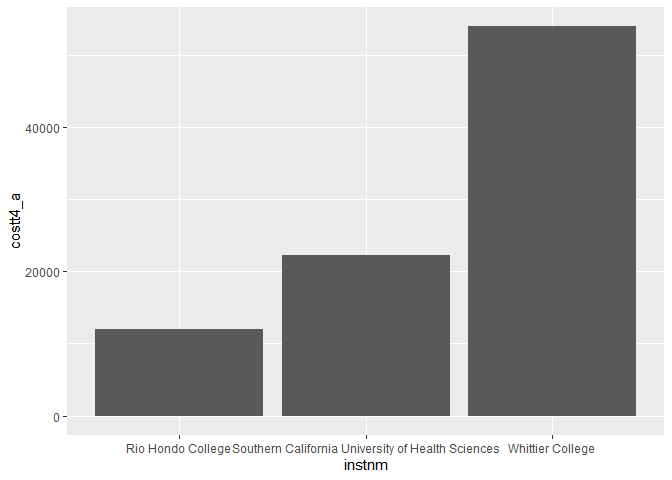
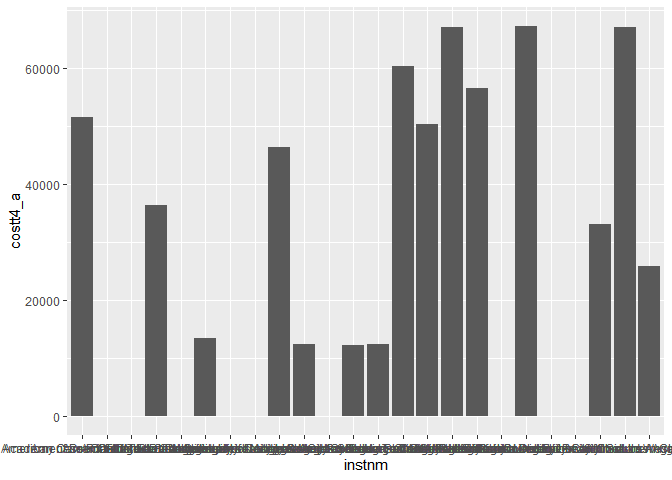
Lab9 HW

diff --git a/lab9/lab9_hw.html b/lab9/lab9_hw.html
@@ -282,49 +282,48 @@ PFTFTUG1_EF: Percentage of undergraduate students who are first-time, full-time 
 <li>The column <code>COSTT4_A</code> is the annual cost of each institution. Which city has the highest average cost? Where is it located?</li>
 </ol>
 <pre class="r"><code>colleges_clean %&gt;%
-  group_by(city, stabbr) %&gt;%
-  summarise(ave_cost = sum(costt4_a)) %&gt;%
+  group_by(city) %&gt;%
+  summarise(ave_cost = sum(costt4_a, na.rm = T)) %&gt;%
   arrange(desc(ave_cost))</code></pre>
-<pre><code>## `summarise()` has grouped output by &#39;city&#39;. You can override using the `.groups` argument.</code></pre>
-<pre><code>## # A tibble: 161 x 3
-## # Groups:   city [161]
-##    city          stabbr ave_cost
-##    &lt;chr&gt;         &lt;chr&gt;     &lt;dbl&gt;
-##  1 Whittier      CA        88186
-##  2 Malibu        CA        66152
-##  3 Valencia      CA        64686
-##  4 Redlands      CA        61542
-##  5 Moraga        CA        61095
-##  6 Costa Mesa    CA        57867
-##  7 La Jolla      CA        57663
-##  8 Atherton      CA        56035
-##  9 Santa Clarita CA        54830
-## 10 Thousand Oaks CA        54373
+<pre><code>## # A tibble: 161 x 2
+##    city          ave_cost
+##    &lt;chr&gt;            &lt;dbl&gt;
+##  1 Los Angeles     611936
+##  2 San Francisco   436999
+##  3 San Diego       373941
+##  4 Claremont       332490
+##  5 Oakland         162814
+##  6 Pasadena        136849
+##  7 Irvine          130502
+##  8 Riverside       127931
+##  9 Santa Barbara   108267
+## 10 Stockton         96476
 ## # ... with 151 more rows</code></pre>
 <ol start="5" style="list-style-type: decimal">
 <li>Based on your answer to #4, make a plot that compares the cost of the individual colleges in the most expensive city. Bonus! Add UC Davis here to see how it compares :&gt;).</li>
 </ol>
 <pre class="r"><code>colleges_clean %&gt;% 
-  filter(city == &quot;Whittier&quot;) %&gt;% 
-  ggplot(aes(x=instnm, y=costt4_a))+
+  filter(city == &quot;Los Angeles&quot;) %&gt;% 
+  ggplot(aes(x=instnm, y=costt4_a, na.rm = T))+
   geom_bar(stat=&quot;identity&quot;)</code></pre>
[1 lines of base64/hex data omitted]
+<pre><code>## Warning: Removed 9 rows containing missing values (position_stack).</code></pre>
[1 lines of base64/hex data omitted]
 <ol start="6" style="list-style-type: decimal">
 <li>The column <code>ADM_RATE</code> is the admissions rate by college and <code>C150_4_POOLED</code> is the four-year completion rate. Use a scatterplot to show the relationship between these two variables. What do you think this means?</li>
 </ol>
 <pre class="r"><code>colleges_clean %&gt;% 
-  ggplot(aes(x=adm_rate, y=c150_4_pooled))+
+  ggplot(aes(x=adm_rate, y=c150_4_pooled, na.rm = T))+
   geom_jitter()</code></pre>
 <pre><code>## Warning: Removed 251 rows containing missing values (geom_point).</code></pre>
[2 lines of base64/hex data omitted]
 <ol start="7" style="list-style-type: decimal">
 <li>Is there a relationship between cost and four-year completion rate? (You don’t need to do the stats, just produce a plot). What do you think this means?</li>
 </ol>
 <pre class="r"><code>colleges_clean %&gt;% 
-  ggplot(aes(x=costt4_a, y=c150_4_pooled))+
+  ggplot(aes(x=costt4_a, y=c150_4_pooled, na.rm = T))+
   geom_jitter()</code></pre>
 <pre><code>## Warning: Removed 225 rows containing missing values (geom_point).</code></pre>
[2 lines of base64/hex data omitted]
 <ol start="8" style="list-style-type: decimal">
 <li>The column titled <code>INSTNM</code> is the institution name. We are only interested in the University of California colleges. Make a new data frame that is restricted to UC institutions. You can remove <code>Hastings College of Law</code> and <code>UC San Francisco</code> as we are only interested in undergraduate institutions.</li>
 </ol>

diff --git a/lab9/lab9_hw.md b/lab9/lab9_hw.md
@@ -162,30 +162,25 @@ colleges_clean %>%
 
 ```r
 colleges_clean %>%
-  group_by(city, stabbr) %>%
-  summarise(ave_cost = sum(costt4_a)) %>%
+  group_by(city) %>%
+  summarise(ave_cost = sum(costt4_a, na.rm = T)) %>%
   arrange(desc(ave_cost))
 ```
 
 ```
-## `summarise()` has grouped output by 'city'. You can override using the `.groups` argument.
-```
-
-```
-## # A tibble: 161 x 3
-## # Groups:   city [161]
-##    city          stabbr ave_cost
-##    <chr>         <chr>     <dbl>
-##  1 Whittier      CA        88186
-##  2 Malibu        CA        66152
-##  3 Valencia      CA        64686
-##  4 Redlands      CA        61542
-##  5 Moraga        CA        61095
-##  6 Costa Mesa    CA        57867
-##  7 La Jolla      CA        57663
-##  8 Atherton      CA        56035
-##  9 Santa Clarita CA        54830
-## 10 Thousand Oaks CA        54373
+## # A tibble: 161 x 2
+##    city          ave_cost
+##    <chr>            <dbl>
+##  1 Los Angeles     611936
+##  2 San Francisco   436999
+##  3 San Diego       373941
+##  4 Claremont       332490
+##  5 Oakland         162814
+##  6 Pasadena        136849
+##  7 Irvine          130502
+##  8 Riverside       127931
+##  9 Santa Barbara   108267
+## 10 Stockton         96476
 ## # ... with 151 more rows
 ```
 
@@ -193,9 +188,13 @@ colleges_clean %>%
 
 ```r
 colleges_clean %>% 
-  filter(city == "Whittier") %>% 
-  ggplot(aes(x=instnm, y=costt4_a))+
+  filter(city == "Los Angeles") %>% 
+  ggplot(aes(x=instnm, y=costt4_a, na.rm = T))+
   geom_bar(stat="identity")
+```
+
+```
+## Warning: Removed 9 rows containing missing values (position_stack).
 ```
 
 ![](lab9_hw_files/figure-html/unnamed-chunk-9-1.png)<!-- -->
@@ -204,7 +203,7 @@ colleges_clean %>%
 
 ```r
 colleges_clean %>% 
-  ggplot(aes(x=adm_rate, y=c150_4_pooled))+
+  ggplot(aes(x=adm_rate, y=c150_4_pooled, na.rm = T))+
   geom_jitter()
 ```
 
@@ -218,7 +217,7 @@ colleges_clean %>%
 
 ```r
 colleges_clean %>% 
-  ggplot(aes(x=costt4_a, y=c150_4_pooled))+
+  ggplot(aes(x=costt4_a, y=c150_4_pooled, na.rm = T))+
   geom_jitter()
 ```
 
